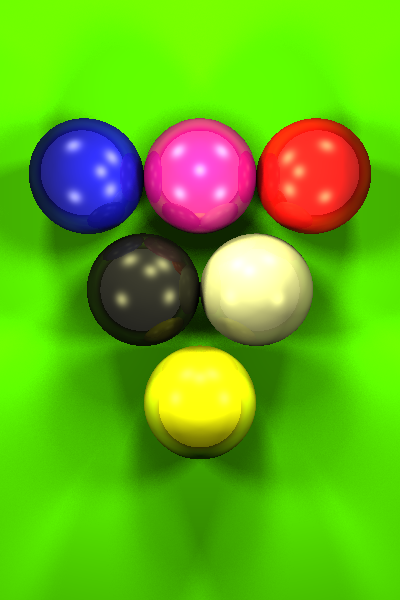
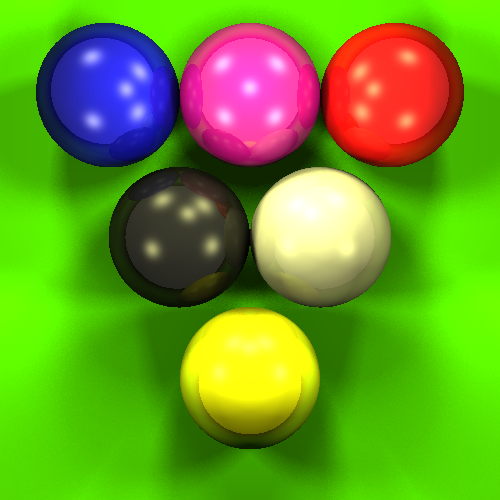
added changes

diff --git a/raytracer/ray_tracer.py b/raytracer/ray_tracer.py
@@ -12,7 +12,7 @@ from surfaces.cube import Cube
 from surfaces.infinite_plane import InfinitePlane
 from surfaces.sphere import Sphere
 from ray import Ray
-
+import time
 
 def parse_scene_file(file_path, width_pixels, height_pixels):
     objects = []
@@ -66,9 +66,8 @@ def get_color(scene_settings, ray, lights, materials, objects, camera, max_iters
         return np.array(scene_settings.background_color)
         
     material = materials[obj.material_index - 1]
-    
-    normal, hit_point = obj.get_normal_from_ray(ray)
-    normal = normal / np.linalg.norm(normal)
+
+    normal = obj.get_normal_from_hit_point(hit_point)
     
     if np.dot(normal, ray.V) > 0:
         normal = -normal
@@ -121,7 +120,6 @@ def color_by_lights(closest_hit_point, normal, lights, objects, material, scene_
     eps = 1e-4
     colors = np.array([0.0, 0.0, 0.0])
 
-    #observer_ray = Ray(closest_hit_point, camera.position)
     observer_v = -ray.V 
 
     for light in lights:
@@ -132,29 +130,25 @@ def color_by_lights(closest_hit_point, normal, lights, objects, material, scene_
         
         grid_width = light.radius
         cell_size = grid_width / N
-        
         top_left = light.position - (grid_width / 2.0 * right) - (grid_width / 2.0 * up)
-
-        rays_hit = 0
+        total_light_received = 0.0
         total_rays = N * N
 
         for i in range(N):
             for j in range(N):
-                current_u = (i + random.uniform(0, 1)) * cell_size
-                current_v = (j + random.uniform(0, 1)) * cell_size
+                current_u = (i + random.random()) * cell_size
+                current_v = (j + random.random()) * cell_size
                 
                 point_on_grid = top_left + (current_u * right) + (current_v * up)
-
                 light_vec = point_on_grid - closest_hit_point
                 dist_to_light = np.linalg.norm(light_vec)
                 to_light_dir = light_vec / dist_to_light
                 shadow_origin = closest_hit_point + (eps * to_light_dir)
                 shadow_ray = Ray(shadow_origin, point_on_grid)
+                intensity = shadow_ray.visible_factor(objects, dist_to_light, materials)
+                total_light_received += intensity
 
-                if shadow_ray.is_visible(objects, dist_to_light, materials):
-                    rays_hit += 1
-
-        hit_ratio = rays_hit / total_rays
+        hit_ratio = total_light_received / total_rays
         light_intensity = (1 - light.shadow_intensity) + light.shadow_intensity * hit_ratio
         if light_intensity > 0:
             light_vec = light.position - closest_hit_point
@@ -167,7 +161,6 @@ def color_by_lights(closest_hit_point, normal, lights, objects, material, scene_
             # Specular
             reflected_ray_dir = 2 * np.dot(light_dir, normal) * normal - light_dir
             spec_angle = max(0.0, np.dot(reflected_ray_dir, observer_v))
-            
             specular_light = np.array(light.color) * np.array(material.specular_color) * (spec_angle ** material.shininess) * light.specular_intensity
             
             colors += light_intensity * (diffuse_light + specular_light)
@@ -196,22 +189,36 @@ def main():
     args = parser.parse_args()
 
     camera, scene_settings, objects, materials = parse_scene_file(args.scene_file, args.width, args.height)
+    lights = []
+    surfaces = []
+    for obj in objects:
+        if isinstance(obj, Light):
+            lights.append(obj)
+        else:
+            surfaces.append(obj)
 
     image_array = np.zeros((args.height, args.width, 3), dtype=float)
     row_head = camera.top_left_pixel
     lights = create_light_list(objects)
     
+    #delete
+    start_time = time.time()
+
     for y in tqdm(range(args.height), desc="Rendering"):
         curr_pixel = row_head
         for x in range(args.width):
             curr_ray = Ray(camera.position, curr_pixel)
-            color = np.array(compute_color(curr_ray, objects, materials, camera, scene_settings, lights))
+            color = np.array(compute_color(curr_ray, surfaces, materials, camera, scene_settings, lights))
 
             image_array[y, x] = np.clip(color, 0, 1)
             curr_pixel = curr_pixel + camera.pixel_size * camera.width_v
         row_head = row_head + camera.pixel_size * camera.height_v
 
     save_image(image_array, args.output_image)
+
+    #print to delete:
+    end_time = time.time()
+    print(f"Finished rendering in {end_time - start_time:.4f} seconds.")
 
 
 if __name__ == '__main__':

diff --git a/raytracer/ray.py b/raytracer/ray.py
@@ -12,40 +12,33 @@ class Ray:
         self.V = self.pixel_point - self.camera_point
         self.V = self.V / np.linalg.norm(self.V)
     
-    def find_ray_closest_intersection(self, objects):
+    def find_ray_closest_intersection(self, surfaces):
         t_min = math.inf
-        closest_hit_point = np.array([math.inf,math.inf,math.inf], dtype=float)
         closest_obj = None
-        surface_types = (Sphere, Cube, InfinitePlane)
 
-        for obj in objects:
-            if not isinstance(obj, surface_types):
-                continue
-            hit_point, t = obj.find_intersection(self)
-            if hit_point is None or t is None:
-                continue
-            if t < t_min:
+        for obj in surfaces:
+            t = obj.find_intersection(self)
+            if t is not None and t < t_min:
                 t_min = t
-                closest_hit_point = hit_point
                 closest_obj = obj
         if closest_obj is None:
             return None, None, None
+        
+        closest_hit_point = self.camera_point + t_min * self.V
         return t_min, closest_hit_point, closest_obj
     
-    def is_visible(self, objects, max_distance, materials):
-        surface_types = (Sphere, Cube, InfinitePlane)
+    def visible_factor(self, objects, max_distance, materials):
+        light_factor = 1.0
         for obj in objects:
-            if not isinstance(obj, surface_types):
-                continue
-            hit_point, t = obj.find_intersection(self)
-            if hit_point is None or t is None:
+            t = obj.find_intersection(self)
+            if t is None:
                 continue
             if 1e-4 < t < max_distance:
-                #mat = materials[obj.material_index - 1]
-                #if mat.transparency > 0:
-                 #   continue
-                return False
-        return True
+                mat = materials[obj.material_index - 1]
+                light_factor *= mat.transparency 
+                if light_factor == 0:
+                    return 0.0
+        return light_factor
 
         
     def find_ray_closest_object(self, objects):

diff --git a/raytracer/surfaces/sphere.py b/raytracer/surfaces/sphere.py
@@ -11,30 +11,24 @@ class Sphere:
         """Find sphere intersection with ray using geometric method"""
         epsilon = 1e-4
         L = self.position - ray.camera_point
- 
         t_ca = np.dot(L, ray.V)
         if (t_ca < 0):
-            return None, None
+            return None
         
         d2 = np.dot(L, L)- t_ca**2 
         if (d2 > self.radius**2):
-            return None, None
+            return None
         
         t_hc = math.sqrt(self.radius**2-d2)
         t1 = t_ca - t_hc
         t2 = t_ca + t_hc
 
         if t1 > epsilon:
-            t = t1
+            return t1
         elif t2 > epsilon:
-            t = t2        
+            return t2      
         else:
-            return None, None
-        
-        hit_point = ray.camera_point + t * ray.V
-
-        return hit_point, t
-    
+            return None
 
     def get_normal_from_hit_point(self, hit_point):
         if hit_point is None:
@@ -42,14 +36,3 @@ class Sphere:
         normal = hit_point - self.position
         normal = normal / np.linalg.norm(normal)
         return normal
-
-    def get_hit_point(self, ray):
-        hit_point, t = self.find_intersection(ray)
-        return hit_point
-    
-    def get_normal_from_ray(self, ray):
-        hit_point = self.get_hit_point(ray)
-        if hit_point is None:
-            return None, None
-        normal = self.get_normal_from_hit_point(hit_point)
-        return normal, hit_point

diff --git a/raytracer/surfaces/cube.py b/raytracer/surfaces/cube.py
@@ -22,7 +22,7 @@ class Cube:
         for i in range(3):
             if abs(ray.V[i]) < 1e-6: # ray parrallel 
                 if ray.camera_point[i] < min_bounds[i] or ray.camera_point[i] > max_bounds[i]:
-                    return None, None
+                    return None
                 # always in bound
                 t1 = -math.inf 
                 t2 = math.inf
@@ -36,19 +36,13 @@ class Cube:
                 t_far = min(t_far, t2)
         
         if t_near > t_far:
-            return None, None
+            return None
         if t_far < epsilon: #t_min = 0, cube is behind camera
-            return None, None
+            return None
         if t_near > epsilon:
-            t = t_near
+            return t_near
         else:
-            t = t_far
-        hit_point = ray.camera_point + t*ray.V
-        return hit_point, t
-    
-    def get_hit_point(self, ray):
-        hit_point, t = self.find_intersection(ray)
-        return hit_point
+            return t_far
 
     def get_normal_from_hit_point(self, hit_point):
         if hit_point is None:
@@ -70,9 +64,3 @@ class Cube:
 
         return normal
     
-    def get_normal_from_ray(self, ray):
-        hit_point = self.get_hit_point(ray)
-        if hit_point is None:
-            return None, None
-        normal = self.get_normal_from_hit_point(hit_point)
-        return normal, hit_point

diff --git a/raytracer/surfaces/infinite_plane.py b/raytracer/surfaces/infinite_plane.py
@@ -12,28 +12,13 @@ class InfinitePlane:
         epsilon = 1e-4
         V_N_dot_product = np.dot(ray.V, self.normal)
         if abs(V_N_dot_product) < epsilon:
-            return None, None # Ray is parrallel to plane
+            return None # Ray is parrallel to plane
         
         t = (self.offset - np.dot(ray.camera_point, self.normal)) / V_N_dot_product
         if t < epsilon: # plane is behind camera
-            return None, None
-        hit_point = ray.camera_point + t * ray.V
-        return hit_point, t
+            return None
+        return t
     
-    def get_hit_point(self, ray):
-        hit_point, t = self.find_intersection(ray)
-        return hit_point
-
     def get_normal_from_hit_point(self, hit_point):
         return self.normal
-
-    def get_normal_from_ray(self, ray):
-        hit_point = self.get_hit_point(ray)
-        if hit_point is None:
-            return None, None
-        normal = self.normal
-        if np.dot(ray.V, normal) > 0:
-            normal = -normal
-        return normal, hit_point
-
         
